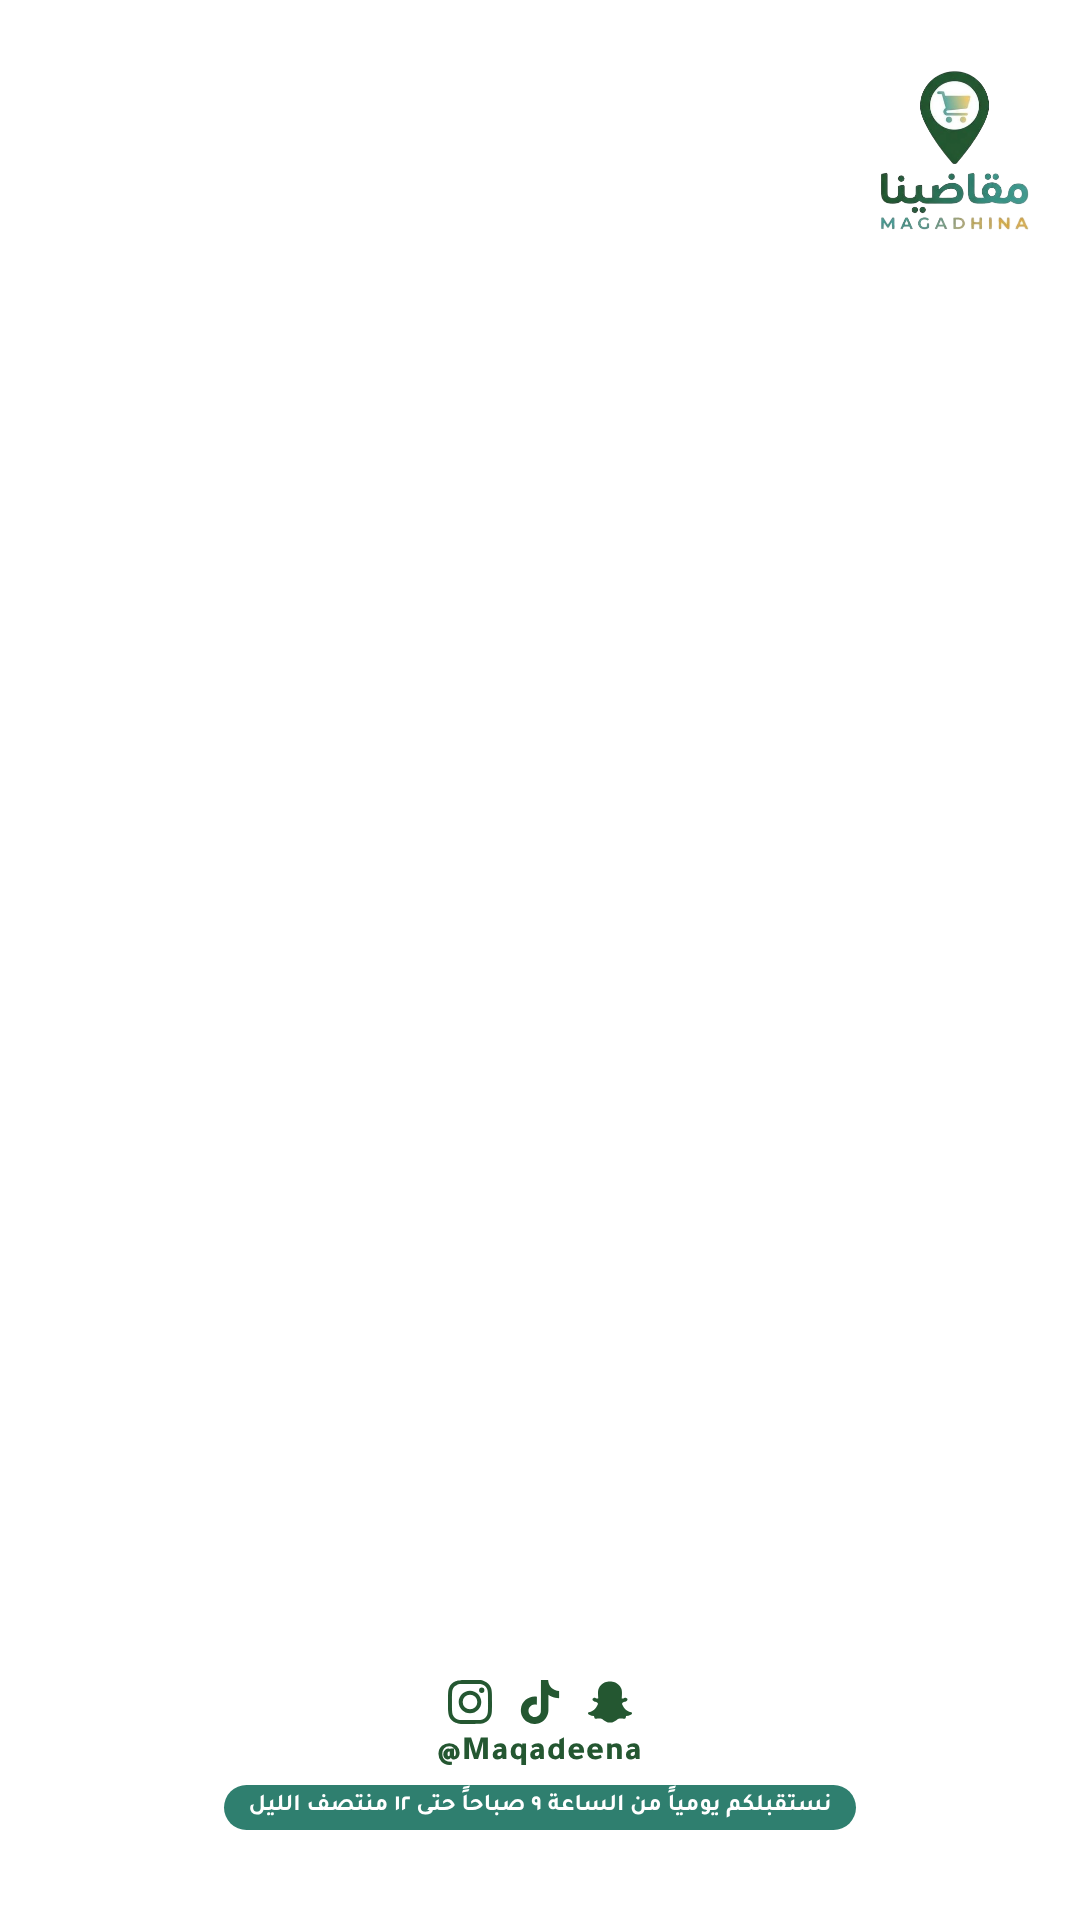
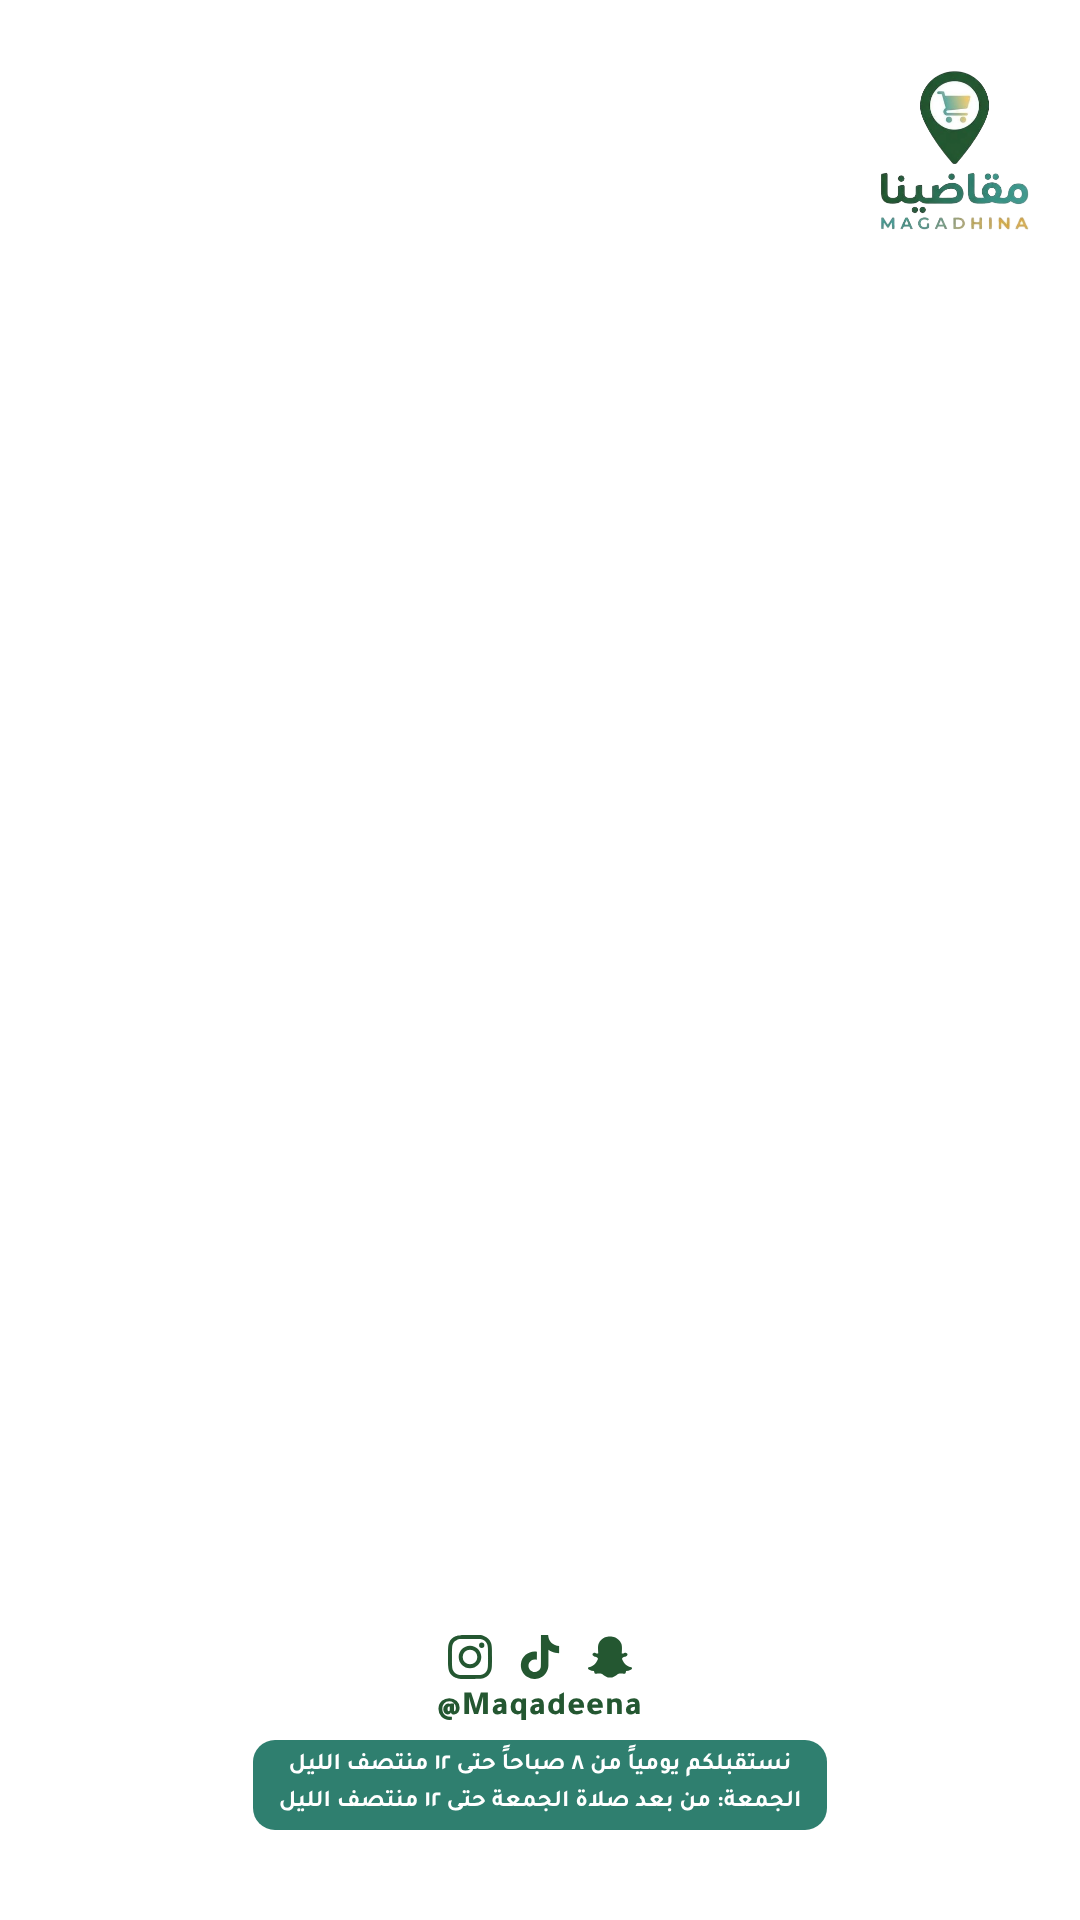
Set real opening hours incl. Friday
Claude-Session: https://claude.ai/code/session_018TE8TxSFjUoAP3ee6M5xNZ

Changed region(s): [[0.2139, 0.8438, 0.7944, 0.9688]]

diff --git a/magadhina-story/story.html b/magadhina-story/story.html
@@ -12,7 +12,7 @@ body{width:1080px;height:1920px;background:var(--bg);font-family:'Tajawal',sans-
 .ic{width:44px;height:44px;display:grid;place-items:center}
 .ic svg{width:44px;height:44px;fill:var(--g)}
 .handle{display:inline-block;font-size:34px;font-weight:800;color:var(--g);direction:ltr;font-family:'Tajawal',sans-serif;letter-spacing:1px}
-.hours{margin:10px auto 0;display:inline-block;font-size:24px;font-weight:700;color:#fff;background:var(--g2);padding:8px 24px;border-radius:999px}
+.hours{margin:10px auto 0;display:inline-block;font-size:24px;font-weight:700;color:#fff;background:var(--g2);padding:8px 26px;border-radius:22px;line-height:1.55}
 </style></head><body>
 <img class="logo" src="logo.webp" alt="مقاضينا">
 <div class="content"></div>
@@ -23,6 +23,6 @@ body{width:1080px;height:1920px;background:var(--bg);font-family:'Tajawal',sans-
     <div class="ic"><svg viewBox="0 0 24 24"><path d="M7.0301.084c-1.2768.0602-2.1487.264-2.911.5634-.7888.3075-1.4575.72-2.1228 1.3877-.6652.6677-1.075 1.3368-1.3802 2.127-.2954.7638-.4956 1.6365-.552 2.914-.0564 1.2775-.0689 1.6882-.0626 4.947.0062 3.2586.0206 3.6671.0825 4.9473.061 1.2765.264 2.1482.5635 2.9107.308.7889.72 1.4573 1.388 2.1228.6679.6655 1.3365 1.0743 2.1285 1.38.7632.295 1.6361.4961 2.9134.552 1.2773.056 1.6884.069 4.9462.0627 3.2578-.0062 3.668-.0207 4.9478-.0814 1.28-.0607 2.147-.2652 2.9098-.5633.7889-.3086 1.4578-.72 2.1228-1.3881.665-.6682 1.0745-1.3378 1.3795-2.1284.2957-.7632.4966-1.636.552-2.9124.056-1.2809.0692-1.6898.063-4.948-.0063-3.2583-.021-3.6668-.0817-4.9465-.0607-1.2797-.264-2.1487-.5633-2.9117-.3084-.7889-.72-1.4568-1.3876-2.1228C21.2982 1.33 20.628.9208 19.8378.6165 19.074.321 18.2017.1197 16.9244.0645 15.6471.0093 15.236-.005 11.977.0014 8.718.0076 8.31.0215 7.0301.0839m.1402 21.6932c-1.17-.0509-1.8053-.2453-2.2287-.408-.5606-.216-.96-.4771-1.3819-.895-.422-.4178-.6811-.8186-.9-1.378-.1644-.4234-.3624-1.058-.4171-2.228-.0595-1.2645-.072-1.6442-.079-4.848-.007-3.2037.0053-3.583.0607-4.848.05-1.169.2456-1.805.408-2.2282.216-.5613.4762-.96.895-1.3816.4188-.4217.8184-.6814 1.3783-.9003.423-.1651 1.0575-.3614 2.227-.4171 1.2655-.06 1.6447-.072 4.848-.079 3.2033-.007 3.5835.005 4.8495.0608 1.169.0508 1.8053.2445 2.228.408.5608.216.96.4754 1.3816.895.4217.4194.6816.8176.9005 1.3787.1653.4217.3617 1.056.4169 2.2263.0602 1.2655.0739 1.645.0796 4.848.0058 3.203-.0055 3.5834-.061 4.848-.051 1.17-.245 1.8055-.408 2.2294-.216.5604-.4763.96-.8954 1.3814-.419.4215-.8181.6811-1.3783.9-.4224.1649-1.0577.3617-2.2262.4174-1.2656.0595-1.6448.072-4.8493.079-3.2045.007-3.5825-.006-4.848-.0608M16.953 5.5864A1.44 1.44 0 1 0 18.39 4.144a1.44 1.44 0 0 0-1.437 1.4424M5.8385 12.012c.0067 3.4032 2.7706 6.1557 6.173 6.1493 3.4026-.0065 6.157-2.7701 6.1506-6.1733-.0065-3.4032-2.771-6.1565-6.174-6.1498-3.403.0067-6.156 2.771-6.1496 6.1738M8 12.0077a4 4 0 1 1 4.008 3.9921A3.9996 3.9996 0 0 1 8 12.0077"/></svg></div>
   </div>
   <div class="handle">@Maqadeena</div><br>
-  <div class="hours">نستقبلكم يومياً من الساعة ٩ صباحاً حتى ١٢ منتصف الليل</div>
+  <div class="hours">نستقبلكم يومياً من ٨ صباحاً حتى ١٢ منتصف الليل<br>الجمعة: من بعد صلاة الجمعة حتى ١٢ منتصف الليل</div>
 </div>
 </body></html>

diff --git a/magadhina-story/build.py b/magadhina-story/build.py
@@ -4,7 +4,7 @@ def path(n): return re.search(r' d="([^"]*)"', (here/'icons'/f'{n}.svg').read_te
 
 # ======= عدّل هنا =======
 HANDLE = "@Maqadeena"
-HOURS  = "نستقبلكم يومياً من الساعة ٩ صباحاً حتى ١٢ منتصف الليل"
+HOURS  = "نستقبلكم يومياً من ٨ صباحاً حتى ١٢ منتصف الليل<br>الجمعة: من بعد صلاة الجمعة حتى ١٢ منتصف الليل"
 GREEN  = "#245731"
 # ========================
 
@@ -22,7 +22,7 @@ body{{width:1080px;height:1920px;background:var(--bg);font-family:'Tajawal',sans
 .ic{{width:44px;height:44px;display:grid;place-items:center}}
 .ic svg{{width:44px;height:44px;fill:var(--g)}}
 .handle{{display:inline-block;font-size:34px;font-weight:800;color:var(--g);direction:ltr;font-family:'Tajawal',sans-serif;letter-spacing:1px}}
-.hours{{margin:10px auto 0;display:inline-block;font-size:24px;font-weight:700;color:#fff;background:var(--g2);padding:8px 24px;border-radius:999px}}
+.hours{{margin:10px auto 0;display:inline-block;font-size:24px;font-weight:700;color:#fff;background:var(--g2);padding:8px 26px;border-radius:22px;line-height:1.55}}
 </style></head><body>
 <img class="logo" src="logo.webp" alt="مقاضينا">
 <div class="content"></div>
